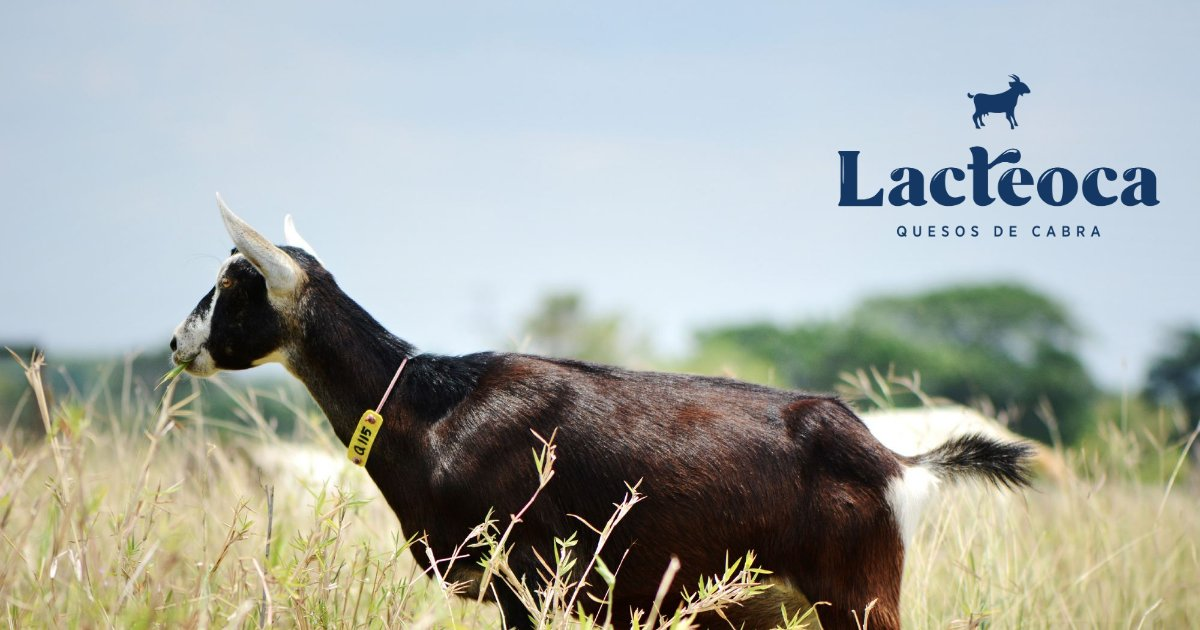
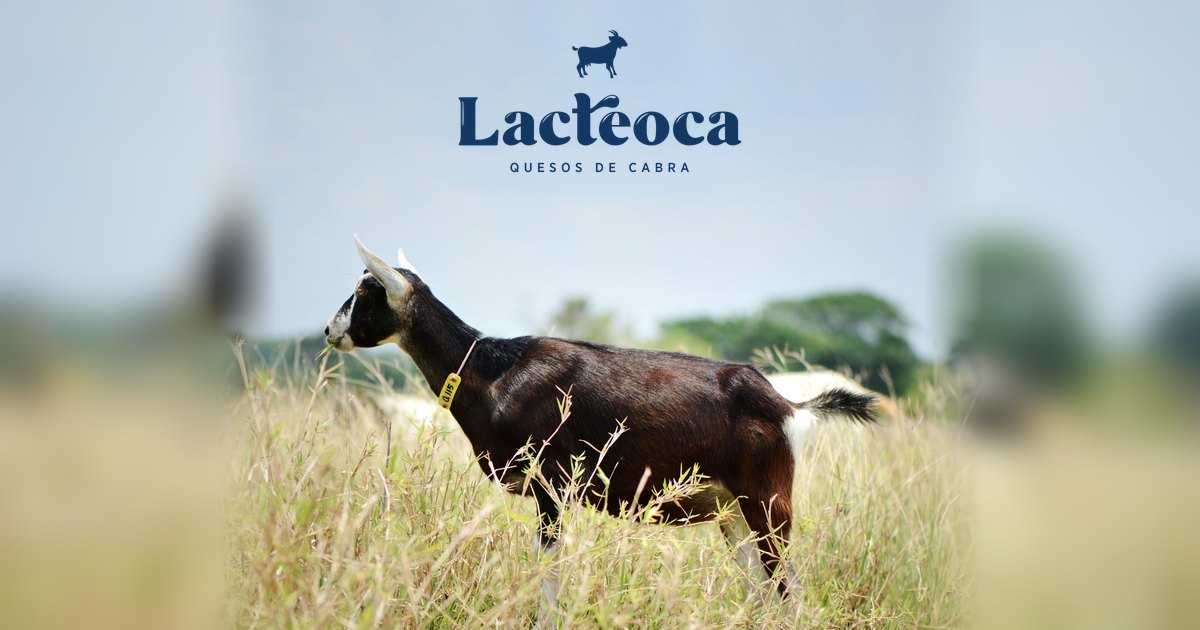
Web de Lacteoca: imagen para compartir con la cabra completa también en recorte cuadrado
Claude-Session: https://claude.ai/code/session_018ZQ9P7M97brVjp4mDfGxpD

diff --git a/sitio/foodservice/index.html b/sitio/foodservice/index.html
@@ -13,7 +13,7 @@
 <meta property="og:title" content="Lacteoca Chèvre para foodservice · bolsa al vacío de 1 kg">
 <meta property="og:description" content="El mismo Chèvre, en formato de cocina. Para restaurantes, hoteles, cafés, panaderías, catering y procesadoras de alimentos.">
 <meta property="og:url" content="https://lacteoca.com/foodservice">
-<meta property="og:image" content="https://lacteoca.com/assets/compartir.jpg">
+<meta property="og:image" content="https://lacteoca.com/assets/compartir-2.jpg">
 <meta name="twitter:card" content="summary_large_image">
 <script type="application/ld+json">{"@context": "https://schema.org", "@type": "Product", "name": "Lacteoca Chèvre, queso de cabra original, bolsa al vacío 1 kg", "brand": {"@type": "Brand", "name": "Lacteoca"}, "description": "Queso de cabra blando, cremoso, semigraso, elaborado con leche de cabra pasteurizada. Formato foodservice: bolsa al vacío de 1 kg.", "image": "https://lacteoca.com/assets/chevre-textura.jpg", "category": "Queso de cabra", "manufacturer": {"@type": "Organization", "name": "Lacteoca, C.A.", "url": "https://lacteoca.com/"}}</script>
 <script type="application/ld+json">{"@context": "https://schema.org", "@type": "FAQPage", "mainEntity": [{"@type": "Question", "name": "¿Es el mismo Chèvre que se vende en el envase de 250 g?", "acceptedAnswer": {"@type": "Answer", "text": "Sí. Es el mismo Lacteoca Chèvre, queso de cabra original, con la misma receta y el mismo proceso. Solo cambia el formato: bolsa al vacío de 1 kg pensada para cocinas."}}, {"@type": "Question", "name": "¿Para qué tipo de negocio es la bolsa de 1 kg?", "acceptedAnswer": {"@type": "Answer", "text": "Para restaurantes, hoteles, cafés, panaderías, servicios de catering y procesadoras de alimentos que usan queso de cabra como ingrediente."}}, {"@type": "Question", "name": "¿Tienen ficha técnica?", "acceptedAnswer": {"@type": "Answer", "text": "Sí. El Chèvre cuenta con ficha de especificaciones técnicas para cocinas profesionales. Pídela por WhatsApp y te la enviamos."}}, {"@type": "Question", "name": "¿Cómo hago un pedido?", "acceptedAnswer": {"@type": "Answer", "text": "Escríbenos por WhatsApp al +58 412 071 9307. Te enviamos la ficha técnica, las condiciones de suministro y coordinamos el despacho."}}]}</script>

diff --git a/sitio/index.html b/sitio/index.html
@@ -12,11 +12,11 @@
 <meta property="og:title" content="Lacteoca · Queso de cabra original">
 <meta property="og:description" content="Lacteoca Chèvre, queso de cabra original. Leche pura y un proceso industrial con el mismo estándar en cada lote.">
 <meta property="og:url" content="https://lacteoca.com/">
-<meta property="og:image" content="https://lacteoca.com/assets/compartir.jpg">
+<meta property="og:image" content="https://lacteoca.com/assets/compartir-2.jpg">
 <meta property="og:image:width" content="1200">
 <meta property="og:image:height" content="630">
 <meta name="twitter:card" content="summary_large_image">
-<meta name="twitter:image" content="https://lacteoca.com/assets/compartir.jpg">
+<meta name="twitter:image" content="https://lacteoca.com/assets/compartir-2.jpg">
 <link rel="canonical" href="https://lacteoca.com/">
 <script type="application/ld+json">{"@context": "https://schema.org", "@type": "Organization", "name": "Lacteoca", "legalName": "Lacteoca, C.A.", "url": "https://lacteoca.com/", "logo": "https://lacteoca.com/assets/icono-512.png", "sameAs": ["https://www.instagram.com/lacteocave/"], "contactPoint": {"@type": "ContactPoint", "telephone": "+58-412-0719307", "contactType": "customer service", "areaServed": "VE", "availableLanguage": "es"}}</script>
 <script type="application/ld+json">{"@context": "https://schema.org", "@type": "Product", "name": "Lacteoca Chèvre, queso de cabra original 250 g", "brand": {"@type": "Brand", "name": "Lacteoca"}, "description": "Queso de cabra blando, cremoso y semigraso, elaborado con leche de cabra pasteurizada. Envase de 250 g.", "image": "https://lacteoca.com/assets/envase-actual.jpg", "category": "Queso de cabra"}</script>
